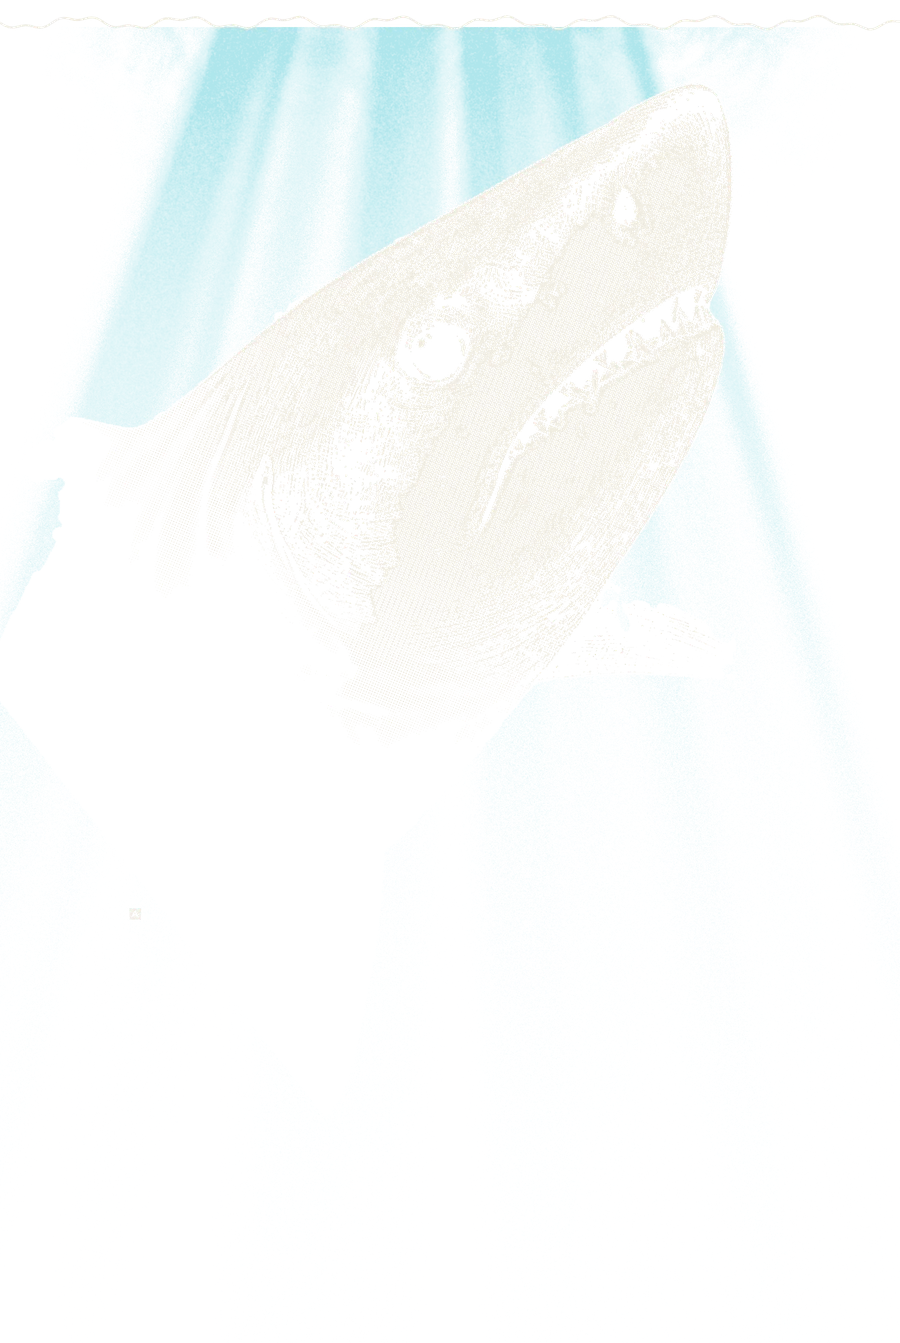
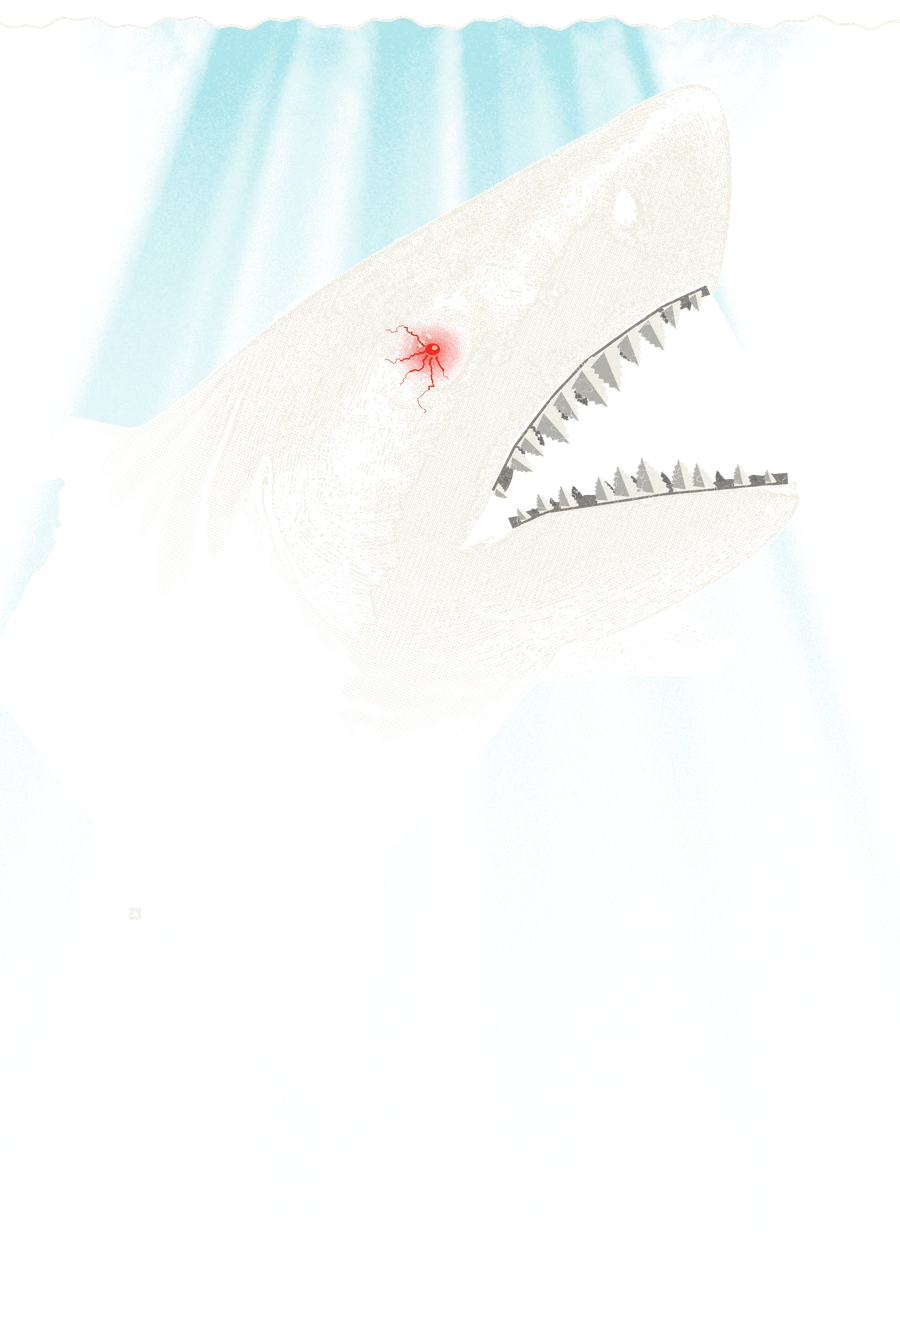
Design lab: BELOW, jaws open, one red eye, blue water meeting the waterline, the surfer drawn on the front

diff --git a/lib/lab.ts b/lib/lab.ts
@@ -378,8 +378,8 @@ const batch02: LabDesign[] = [
   {
     id: 'below', name: 'BELOW', colour: 'Black', swatch: '#1d1d1d', field: 'Open water',
     line: 'Look down.',
-    story: 'One waterline runs right round you at chest height. On your chest a surfboard floats on it, two legs hanging into the light. On your back, out of the dark under the same line, a great white drives up through the sunbeams, jaws first, slanting round towards the surfer: the way great whites strike at the surface.',
-    print: 'A waterline round the chest; a surfer above it, a great white striking up from the dark',
+    story: 'One waterline runs right round you at chest height. On your chest a surfboard floats on it, two legs hanging into the light. On your back, out of the dark under the same line, a great white drives up through the sunbeams with its jaws thrown open, one eye burning red as it lunges at the surfer.',
+    print: 'A waterline round the chest; a surfer above it, a great white striking up, jaws open, one red eye',
     status: 'test', show: true, range: 'batch02',
     shots: [{ label: 'Back', src: 'lab/below/back.webp' }, { label: 'Front', src: 'lab/below/front.webp' }],
     refs: [
